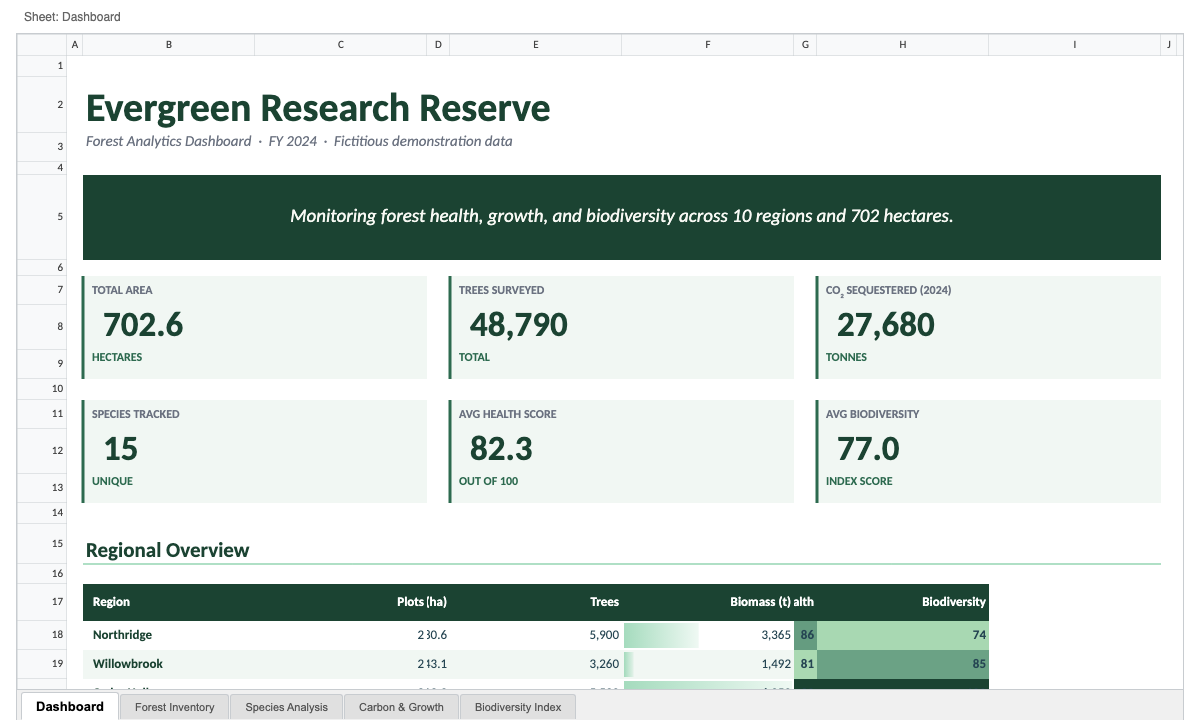
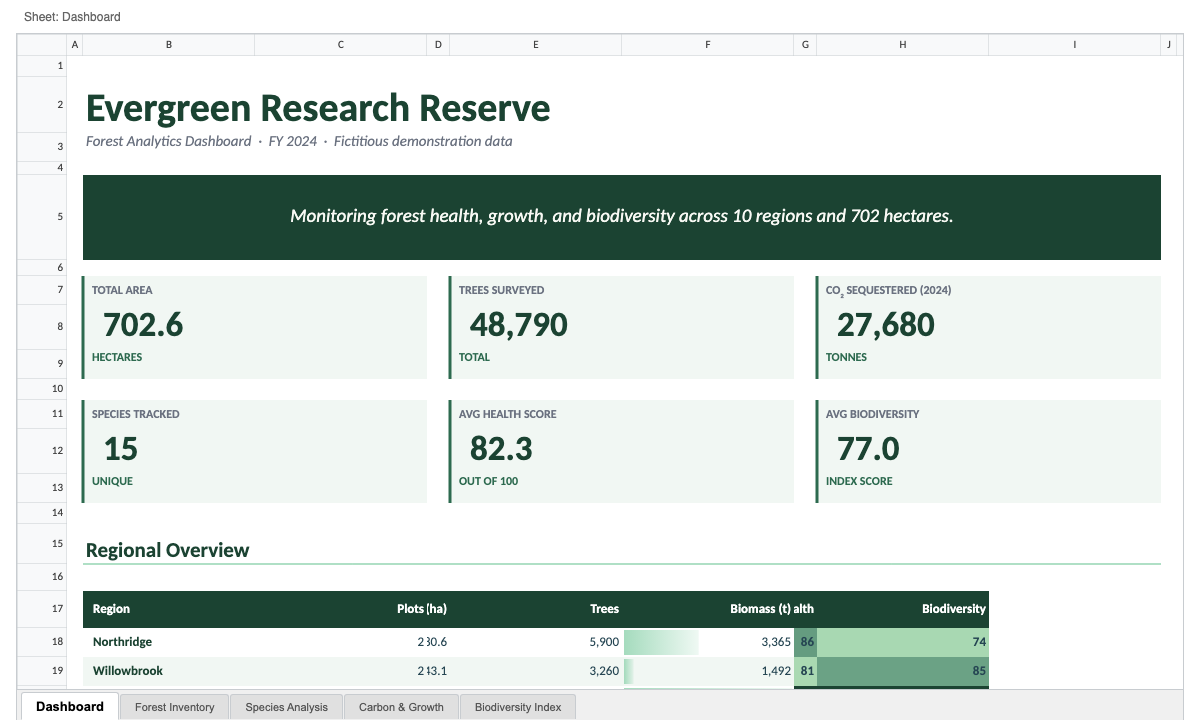
chore(release): 0.39.0
Six xlsx-focused chart and row-height fidelity fixes uncovered by
demo/sample-1's Forest Inventory / Carbon & Growth / Biodiversity
Index sheets. See CHANGELOG 0.39.0 for the ECMA-376 references and
the per-fix notes. xlsx README screenshot re-captured against the
corrected row-height layout; pptx / docx renders unchanged.

Changed region(s): [[0.0308, 0.7944, 0.8325, 0.9778], [0.5242, 0.9472, 0.6167, 0.9778]]

diff --git a/CHANGELOG.md b/CHANGELOG.md
@@ -4,6 +4,27 @@ All notable changes to @silurus/ooxml are documented here. The project follows
 semantic versioning; minor releases add spec-compliant features or behavior
 changes that remain compatible with existing API surfaces.
 
+## 0.39.0 — 2026-05-24
+
+xlsx fidelity release. Six correctness fixes for chart and row-height
+rendering surfaced by `demo/sample-1`'s Forest Inventory / Carbon & Growth
+/ Biodiversity Index sheets. The chart-related fixes also extend the
+shared `@silurus/ooxml-core` chart renderer, so pptx / docx consumers see
+the same improvements (pptx demo VRT 9/9 still passes byte-identically).
+
+### Fixes
+
+- **xlsx**: the `customHeight="1"` gate on `<row ht>` added in 0.37.0 was too strict — `demo/sample-1` sheets 2-5 store `ht="36.95"` on row 2 without `customHeight`, and Excel renders that row at ~49 px (36.95 pt × 4/3), not the workbook default. Always honor `ht` and `defaultRowHeight` when present; `customHeight` is metadata about *how* the height was set, not a gate on whether to honor it. The same gate is removed from `sheetFormatPr@defaultRowHeight`.
+- **chart**: `<c:catAx|valAx><c:spPr><a:ln><a:noFill>` (line-only hide, distinct from `<c:delete val="1"/>` which removes the entire axis) is now honored across line / bar / area / scatter / waterfall renderers. New `catAxisLineHidden` / `valAxisLineHidden` fields on `ChartData` / `ChartModel`; parser detects `<a:noFill>` under `<a:ln>` and each renderer gates its axis rule on it. `demo/sample-1` "Carbon & Growth" uses this to suppress the value-axis vertical line on the embedded line chart.
+- **chart (line)**: series color resolution now falls back to `<a:ln><a:solidFill>` when `<c:ser><c:spPr>` has no direct `<a:solidFill>`. Line / scatter / radar series carry their color on the stroke fill; the previous lookup only checked the area fill, so explicit `<a:srgbClr val="2D6A4F">` overrides fell through to the theme accent rotation (the "Carbon & Growth" "Year" series rendered as accent1 #156082 blue).
+- **chart**: legend swatch is now a horizontal line segment (instead of a filled rectangle) for line / stackedLine / stackedLinePct / radar / scatter chart types. Bar / area / pie keep the rectangle. Matches Excel's per-chart-type legend convention.
+- **chart (radar)**: `<c:radarChart><c:radarStyle val>` (ECMA-376 §21.2.3.10) is parsed and threaded onto `ChartModel.radarStyle`. The renderer now only fills the polygon when `radarStyle === "filled"`; "standard" / "marker" / absent draw the line only. Without this every radar series was washed with a 25 % alpha fill.
+- **chart (radar)**: per-series `<c:marker><c:symbol val="none"/>` is honored even when the chart-type style is `radarStyle="marker"` (series-level override wins, ECMA-376 §21.2.2.33). Missing data points (sparse `<c:val>` cache where ptCount > the supplied pts) are now skipped instead of synthesized as 0 — the polyline breaks on holes and only closes when every point is present. `demo/sample-1` "Biodiversity Index" omits idx 0 on every series; Excel draws an open polyline from Northridge to Hollowvale without bridging back through the top spoke.
+
+### Notes
+
+VRT references for `demo/sample-1` sheets 1 and 2 are now visibly stale relative to the corrected layouts (cumulative effect of the 0.37.0 pt→px row-height change and this release's `<row ht>` gate fix). The new renders match Excel; references need `UPDATE_REFS=1` once confirmed.
+
 ## 0.38.0 — 2026-05-23
 
 Single pptx text-layout fix that affects any text body whose layout inherits a